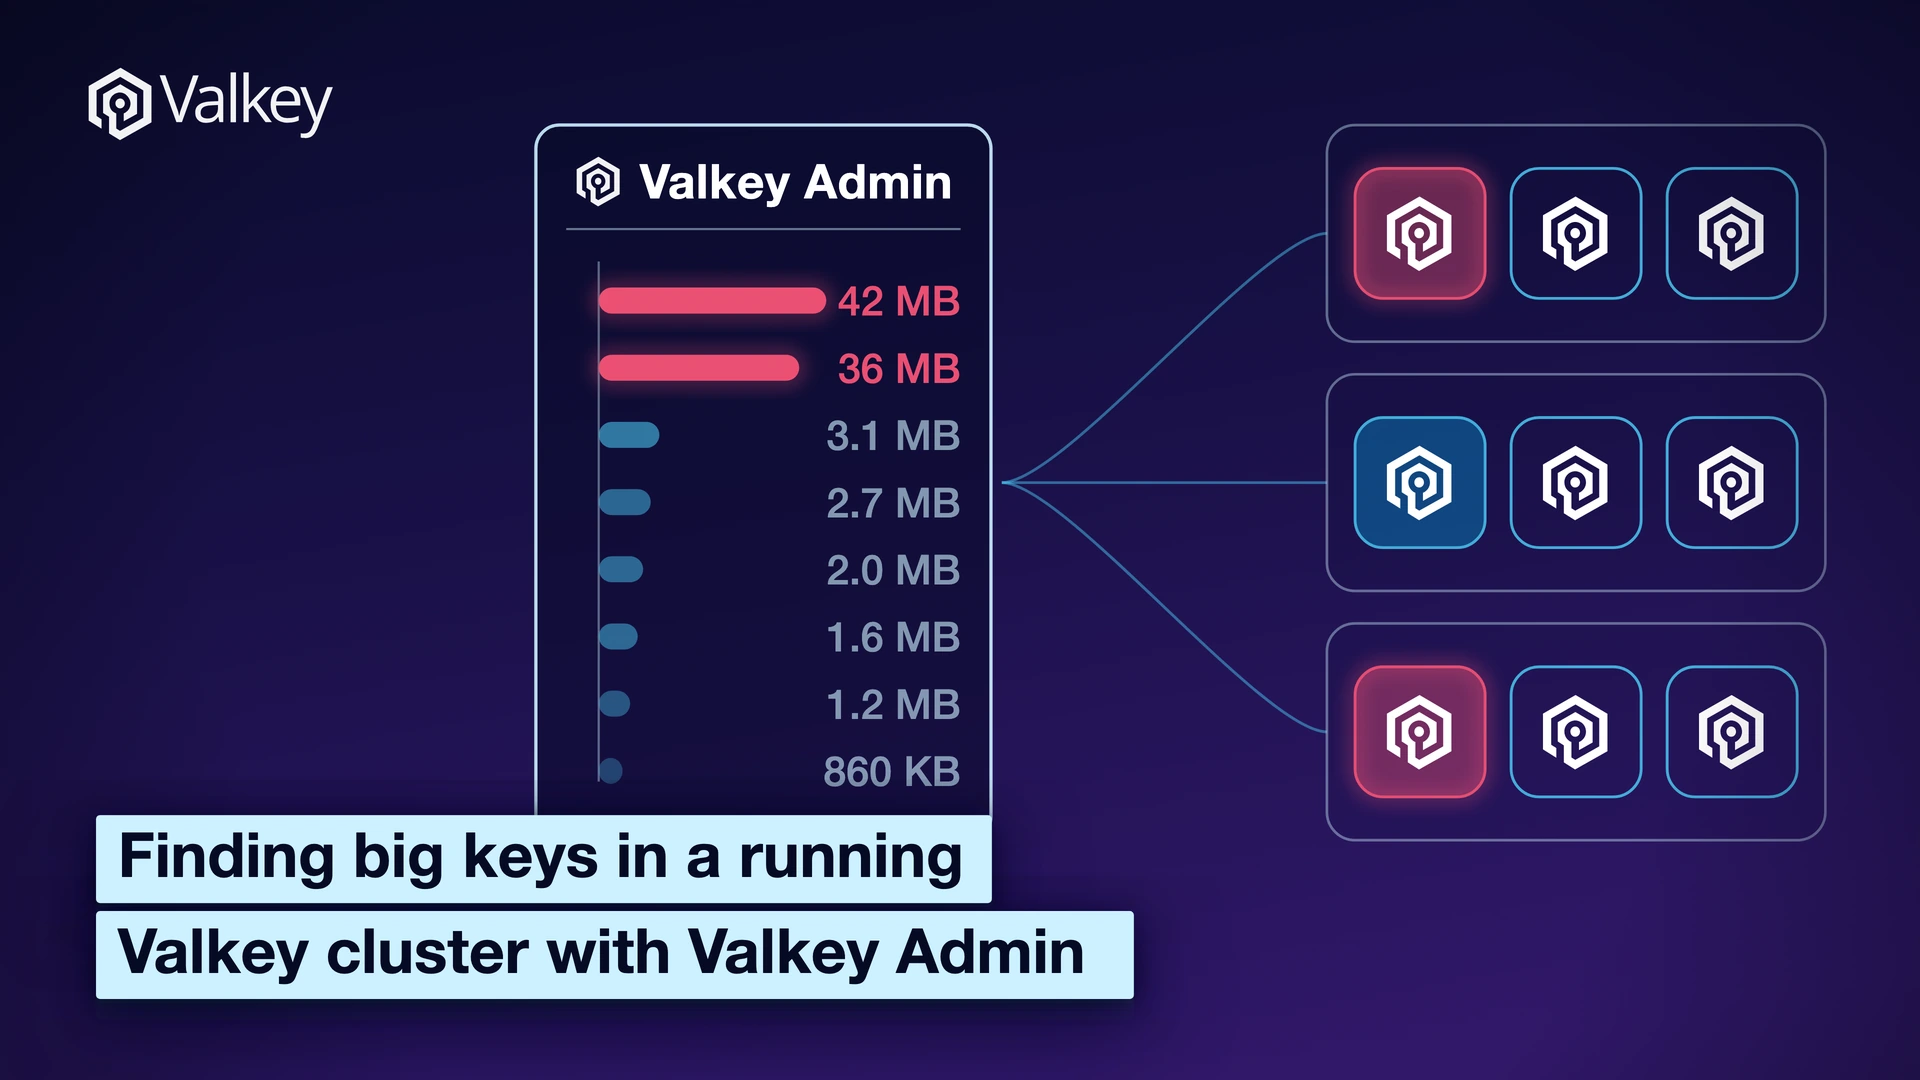
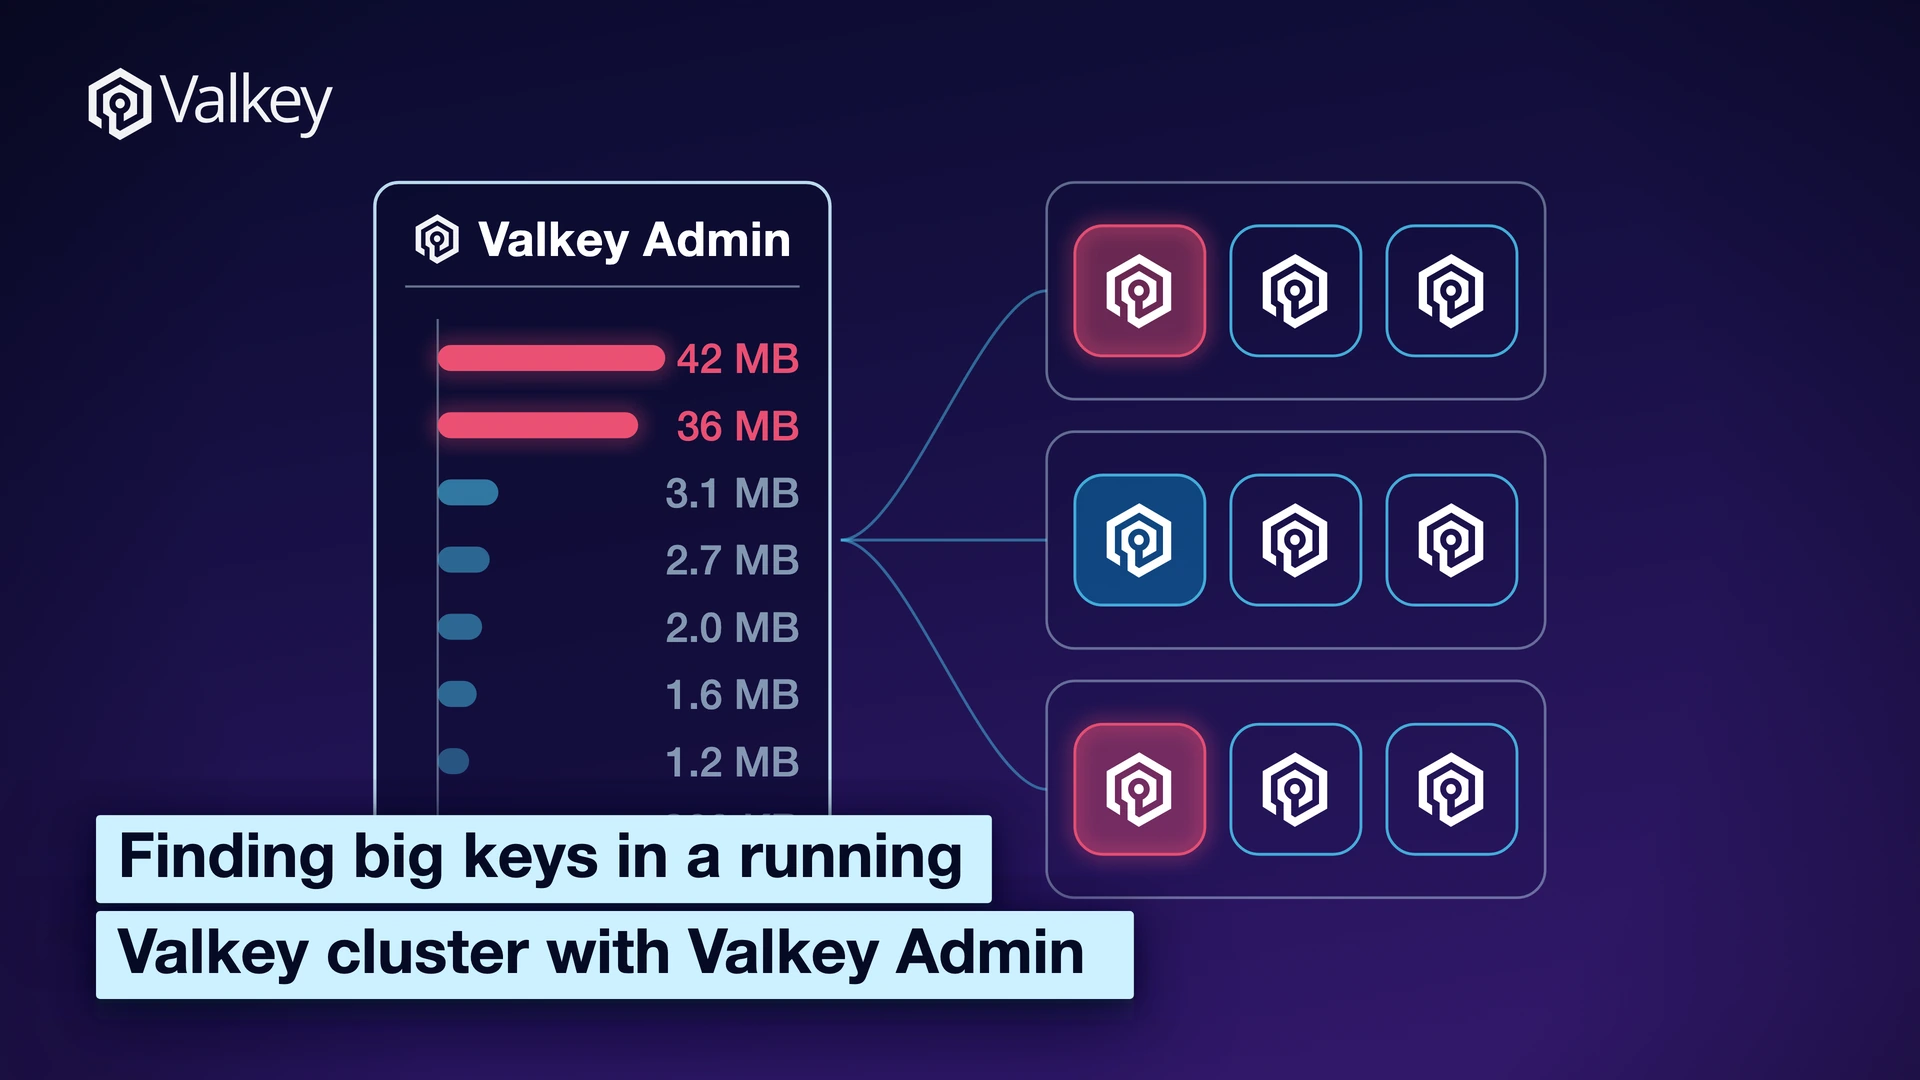
Compute the card's placement, and cache renders by SVG hash
The artwork was not centred. It sat 352 units from the left edge of the framed box
and 243 from the right, 100 from the top and 191 from the bottom, because every
attempt at this was a hand-picked dx and dy and the numbers to balance are the
scaled motif box against the frame box, which is not something to judge by eye.

keySizeCardBox computes it instead: scale the box, centre it in the frame. That
gives 297.5 units of margin left and right and 144.8 top and bottom, and it holds
if the scale or the spread changes again. Art functions now receive the theme, so
a card can measure the frame it is being drawn into.

Centring costs the bottom row of the chart, the 860 KB bar and its label, which
the block stack crosses. One row, and the same overlap the parent theme has. The
motif still sits whole inside the narrow crop: 496 to 1424 against its 427 to
1493.

Kept spread at 40 rather than the 150 it was, along with the reasoning for it:
the shards have to clear the harness curves, and 26 units of enclosure padding is
all that separates the third tile from the enclosure edge, so any framing that
bleeds the enclosure also slices a hexagon.

Render cache. Rendering is the whole cost of a run, two Chrome screenshots and two
Pillow encodes per theme, so a full rebuild is five and a half minutes and almost
all of it redraws files that did not change. An SVG fully determines its raster,
so its hash is the key, stored in .render-cache.json and gitignored. A theme is
[…]

diff --git a/README.md b/README.md
@@ -75,9 +75,18 @@ pulls this repo in as a submodule and renders from it.
 ## Regenerating
 
 ```sh
-node generate.mjs                        # all themes
+node generate.mjs                        # all themes, skipping any that are unchanged
 node generate.mjs performance release    # just these
+node generate.mjs --force                # ignore the cache and redraw everything
 ```
+
+Rendering is the whole cost of a run: two Chrome screenshots and two Pillow encodes per
+theme, so a full rebuild from cold is about five and a half minutes. An SVG fully
+determines its raster, so its hash is used as a cache key in `.render-cache.json`
+(gitignored). A theme is redrawn when its markup differs from the hash on record or when
+one of its outputs is missing; otherwise it is skipped, and a no-op rebuild takes under a
+second. Nothing about correctness rests on it: delete the file and the next run redraws
+everything.
 
 Requirements:
 
